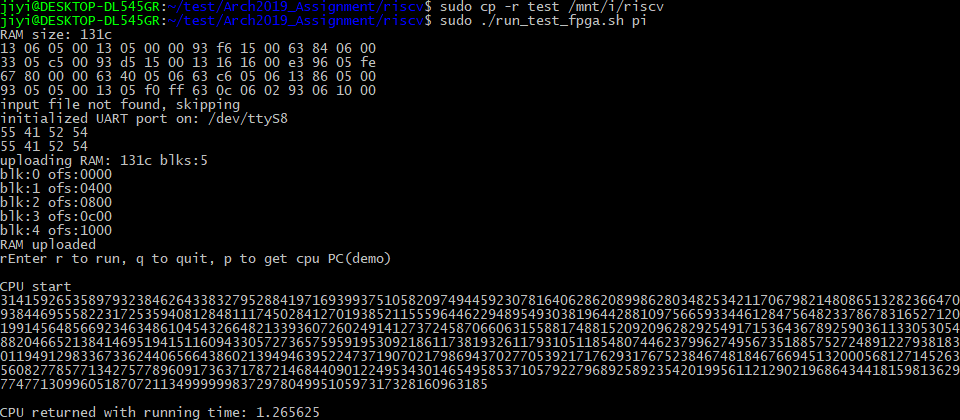
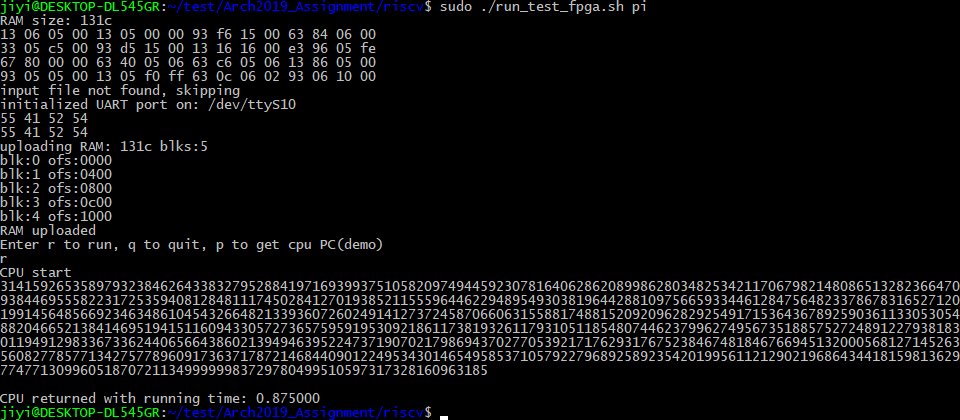
update doc && some test results

Changed region(s): [[0.0, 0.3405, 1.0, 1.0], [0.0, 0.0, 0.6875, 0.3095]]

diff --git a/README.md b/README.md
@@ -4,115 +4,92 @@
 
 		本次大作业实现了一个近似标准的五级流水CPU，支持rv32i指令集，共有三个主要版本。
 
-+ 五周期取指令流水版本（Simulation Passed, FPGA failed）
+- 五周期取指令流水版本（Simulation Passed, FPGA failed）
 
   256 * 32bit inst cache with DM
 
-+ 六周期取指令流水版本（可超频至200mhz，pi的时间在1.0s左右）
+- 六周期取指令流水版本（可超频至200mhz，pi的时间在1.0s左右）
 
-  256 * 32bit inst cache with DM
+  no predictor: 256 * 32bit inst cache with DM, pi的时间在1.0s左右
 
-+ 六周期取指令流水版本（50mhz ok）
+  with predictor: 256 * 32bit inst cache with DM, pi的时间在0.8s左右
+
+- 六周期取指令流水版本（50mhz ok）
 
   127 * 32 * 2bit 2-way associative inst cache with FIFO
 
-  256 * 32bit data cache with DM
+  128 * 32bit data cache with DM
 
-  128 * 4bit (2,2) correlating BHT predictor
+  64 * 4bit (2,2) correlating BHT predictor
 
 ## 2、架构示意图
 
-![normal](normal.PNG)
-
-![d-cache](d-cache.PNG)
+![normal](normal.PNG)![d-cache](d-cache.PNG) 
 
 ## 3、与教科书标准五级流水的异同
 
 ### 同
 
-+ 均为五级流水，其中IF阶段取指，ID解码，EX算数运算，MEM内存读写，WB写回寄存器
-+ 均有完整Data Forwarding，因而除前一条为Load指令的RAW外无Datahazard(需要stallcontroll判断)
-+ Register有两个读端口和一个写端口，因而没有ID和WB的Structral hazard
+- 均为五级流水，其中IF阶段取指，ID解码，EX算数运算，MEM内存读写，WB写回寄存器
+- 均有完整Data Forwarding，因而除前一条为Load指令的RAW外无Datahazard(需要stallcontroll判断)
+- Register有两个读端口和一个写端口，因而没有ID和WB的Structral hazard
 
 ### 异
 
-+ 说明：与教科书五级流水的不同之处主要由于以下原因:
-  + Memory单端口的限制,我们的Memory是单端口Memory，因而IF和MEM之间存在Structural Hazard，需要特殊的处理
-  + Memory数据线只有8bit，这意味着取一个32bit数据需要4个周期，于是IF和MEM在进行Memory访问是多周期的，逻辑较为复杂
-
-+ PCReg集成在了IF中，由于取指要发4个周期的地址，PCReg集成在内逻辑更简单些
-+ inst-cache和data-cache并不是拦在IF/MEM和Memory之间，为了使cache miss的逻辑更为清晰，并且同步对Memory取数据和对cache的访问可以减少周期数
+- 说明：与教科书五级流水的不同之处主要由于以下原因:
+  - Memory单端口的限制,我们的Memory是单端口Memory，因而IF和MEM之间存在Structural Hazard，需要特殊的处理
+  - Memory数据线只有8bit，这意味着取一个32bit数据需要4个周期，于是IF和MEM在进行Memory访问是多周期的，逻辑较为复杂
+- PCReg集成在了IF中，由于取指要发4个周期的地址，PCReg集成在内逻辑更简单些
+- inst-cache和data-cache并不是拦在IF/MEM和Memory之间，为了使cache miss的逻辑更为清晰，并且同步对Memory取数据和对cache的访问可以减少周期数
 
 ## 4、细节实现
 
-+ 内存读写
+- 内存读写
 
   在IF和MEM中采用状态机的写法，用时序逻辑实现了一个类似内存读写上的“小”流水的结构
 
   MEM的优先级比IF高，当MEM进行读写请求时，IF被立刻stall
 
-  + 读：通过在一周期内即收数据又发新地址的操作实现六周期取32bit
-    + 关于五周期取指的想法来自郭林松同学，在IF阶段可以在上一条指令的第六个周期（收byte4）时进行下一条指令的请求，这样就使两条指令的取指重叠了一个周期，相当于成为了五周期取指。我也实现了这一想法，但是只能通过simulation测试而无法上板，时间所限也没有调试出来。
+  - 读：通过在一周期内即收数据又发新地址的操作实现六周期取32bit
+    - 关于五周期取指的想法来自郭林松同学，在IF阶段可以在上一条指令的第六个周期（收byte4）时进行下一条指令的请求，这样就使两条指令的取指重叠了一个周期，相当于成为了五周期取指。我也实现了这一想法，但是只能通过simulation测试而无法上板，时间所限也没有调试出来。
+  - 写：MEM的写操作采用类似做法，5个周期即可停止占用，
 
-  + 写：MEM的写操作采用类似做法，5个周期即可停止占用，
+- 分支指令
 
-+ 分支指令
+  - 无predictor的版本，静态默认不跳转，在EX阶段发现应当jump时会发送flush信号将在IF/ID，ID/EX寄存器中的数据销毁，同时向IF发送新的地址，让IF重新取正确的指令
+  - 有predictor的版本，IF会对branch指令特殊判断，发现是branch指令后向predictor模块询问一个地址（加法在predictor模块中做)，下周期收到预测结果开始取指。 若预测错误则仍会在EX阶段发现并产生flush信号消除影响。
 
-  + 无predictor的版本，静态默认不跳转，在EX阶段发现应当jump时会发送flush信号将在IF/ID，ID/EX寄存器中的数据销毁，同时向IF发送新的地址，让IF重新取正确的指令
-  + 有predictor的版本，IF会对branch指令特殊判断，发现是branch指令后向predictor模块询问一个地址（加法在predictor模块中做)，下周期收到预测结果开始取指。 若预测错误则仍会在EX阶段发现并产生flush信号消除影响。
+- i-cache和d-cache(DM)
 
-+ i-cache和d-cache(DM)
-  + 256行，8位index，8位tag（18-2-8），2位offset（i-cache不需要）
-  + 收到请求后比较tag判断hit，对于IF，hit则可以开始下一次请求，对于MEM，hit则可以结束MEM，停止stall
+  - 256行，8位index，8位tag（18-2-8），2位offset（i-cache不需要）
+  - 收到请求后比较tag判断hit，对于IF，hit则可以开始下一次请求，对于MEM，hit则可以结束MEM，停止stall
 
-+ i-cache(FIFO)
+- i-cache(FIFO)
 
-  + 128行*2，7位index，9位tag（18-2-7），2-way associative
+  - 128行*2，7位index，9位tag（18-2-7），2-way associative
 
-  + 对于这里的FIFO，使用了一个特别的的标记位（0or1）。由于initial语句以及循环语句不能综合，所以对于整个cache的置零是无法做到的，这样一般的判断某一路为空就往里赋值无法实现，所以使用这个标记位。
+  - 对于这里的FIFO实现，使用了一个特别的的标记位（0or1）。由于initial语句以及循环语句不能综合，所以对于整个cache的置零是无法做到的，这样一般的判断某一路为空就往里赋值无法实现，所以使用这个标记位。
 
     标记位为0时表示上一次对该行进行缓存时写在了1这一路，这一次应当写在0这一路
 
-    标记位为1时反过来，标记位为其他情况（初始情况时）向0这一路写，并将标记更改为1
+    标记位为1时反过来，标记位为其他情况（高阻态等初始情况时）向0这一路写，并将标记更改为1
 
 ## 5、遇到的问题
 
 #### IF和MEM的Structral Hazard
 
-+ 一开始我写的第一个版本是在发现memctrl在被人占用时等待memctrl做好，再进行自己的读写操作。后来在MEM占用后让IF重新开始占用memctrl的问题上产生了巨大的问题，进行了多种尝试未果后发现了现在这种架构，觉得逻辑更为清晰合理，于是进行了改写。
+- 一开始我写的第一个版本是在发现memctrl在被人占用时等待memctrl做好，再进行自己的读写操作。后来在MEM占用后让IF重新开始占用memctrl的问题上产生了巨大的问题，进行了多种尝试未果后发现了现在这种架构，觉得逻辑更为清晰合理，于是进行了改写。
 
 #### 唯一可能的RAW hazard
 
-+ 写出i-cache后的由于连续hit会产生RAW问题，在一些测例上可以跑过，一些测例上跑不过，进行了多种尝试。原先是在指令过ID/EX时判断是否为load指令，是load则stall流水线，并让MEM阶段判断load结束stall状态，是一个可行方案，但是速度感人。后改为将EX的rd和ID的reg访问进行判断，将ID阶段stall一个周期，解决了这个问题。
+- 写出i-cache后的由于连续hit会产生RAW问题，在一些测例上可以跑过，一些测例上跑不过，进行了多种尝试。原先是在指令过ID/EX时判断是否为load指令，是load则stall流水线，并让MEM阶段判断load结束stall状态，是一个可行方案，但是速度感人。后改为将EX的rd和ID的reg访问进行判断，将ID阶段stall一个周期，解决了这个问题。
 
 #### 上板是玄学
 
-+ 本次CPU大作业产生三个版本实在是无奈之举。
+- 本次CPU大作业产生三个版本实在是无奈之举。
 
   在六周期取指的版本上我可以进行200mhz的超频，偶尔能有pi 0.98s的测试时间，大部分时候都在1.0x s徘徊。为了稳定的进1s在郭林松同学的指引下我完成了五周期取指的改写，但是simulation可过而无法上板令人难受至极（尝试降频无效）。
 
   d-cache的版本也是如此，经过多次尝试，2-way i-cache+ DM d-cache+（2，2）BHT predictor的版本只能在50mhz的情况下上板。
 
   最后阶段的调试心态爆炸，也没有时间，就只能这样了。
-
-#### 关于调试方法
-
-+ 在进行CPU的调试过程中一直都陷入矛盾，肉眼看波形图极度困难，后来在数理逻辑的学习中获得了灵感
-
-  在RegisterMachine的章节里我们知道程序运行状态可以由寄存器状态大致看出，于是得到输出所有对寄存器的更改的调试方法
-
-  即在regfile的写端口写下 ``` $display("write at ", reg_addr, "  ", wdata)```
-
-  然后通过与保证正确性的旧版本输出对比达到快速定位错误的效果
-
-## 6、参考资料与致谢
-
-[1] 自己动手写CPU,雷思磊,电子工业出版社,2014
-
-[2] 17届多位学长学姐的Github仓库
-
-
-
-特别感谢郭林松同学在5周期fetch以及RAW datahazard方面给我提供的帮助
-
-特别助教们在上板，超频等多方面的倾力帮助

diff --git a/doc/RISC-V CPU 报告文档.md b/doc/RISC-V CPU 报告文档.md
@@ -10,15 +10,17 @@
 
 + 六周期取指令流水版本（可超频至200mhz，pi的时间在1.0s左右）
 
-  256 * 32bit inst cache with DM
+  no predictor: 256 * 32bit inst cache with DM, pi的时间在1.0s左右
+
+  with predictor: 256 * 32bit inst cache with DM, pi的时间在0.8s左右
 
 + 六周期取指令流水版本（50mhz ok）
 
   127 * 32 * 2bit 2-way associative inst cache with FIFO
 
-  256 * 32bit data cache with DM
+  128 * 32bit data cache with DM
 
-  128 * 4bit (2,2) correlating BHT predictor
+  64 * 4bit (2,2) correlating BHT predictor
 
 ## 2、架构示意图
 
@@ -67,11 +69,11 @@
 
   + 128行*2，7位index，9位tag（18-2-7），2-way associative
 
-  + 对于这里的FIFO，使用了一个特别的的标记位（0or1）。由于initial语句以及循环语句不能综合，所以对于整个cache的置零是无法做到的，这样一般的判断某一路为空就往里赋值无法实现，所以使用这个标记位。
+  + 对于这里的FIFO实现，使用了一个特别的的标记位（0or1）。由于initial语句以及循环语句不能综合，所以对于整个cache的置零是无法做到的，这样一般的判断某一路为空就往里赋值无法实现，所以使用这个标记位。
 
     标记位为0时表示上一次对该行进行缓存时写在了1这一路，这一次应当写在0这一路
 
-    标记位为1时反过来，标记位为其他情况（初始情况时）向0这一路写，并将标记更改为1
+    标记位为1时反过来，标记位为其他情况（高阻态等初始情况时）向0这一路写，并将标记更改为1
 
 ## 5、遇到的问题
 
@@ -92,25 +94,3 @@
   d-cache的版本也是如此，经过多次尝试，2-way i-cache+ DM d-cache+（2，2）BHT predictor的版本只能在50mhz的情况下上板。
 
   最后阶段的调试心态爆炸，也没有时间，就只能这样了。
-
-#### 关于调试方法
-
-+ 在进行CPU的调试过程中一直都陷入矛盾，肉眼看波形图极度困难，后来在数理逻辑的学习中获得了灵感
-
-  在RegisterMachine的章节里我们知道程序运行状态可以由寄存器状态大致看出，于是得到输出所有对寄存器的更改的调试方法
-
-  即在regfile的写端口写下 ``` $display("write at ", reg_addr, "  ", wdata)```
-
-  然后通过与保证正确性的旧版本输出对比达到快速定位错误的效果
-
-## 6、参考资料与致谢
-
-[1] 自己动手写CPU,雷思磊,电子工业出版社,2014
-
-[2] 17届多位学长学姐的Github仓库
-
-
-
-特别感谢郭林松同学在5周期fetch以及RAW datahazard方面给我提供的帮助
-
-特别助教们在上板，超频等多方面的倾力帮助
